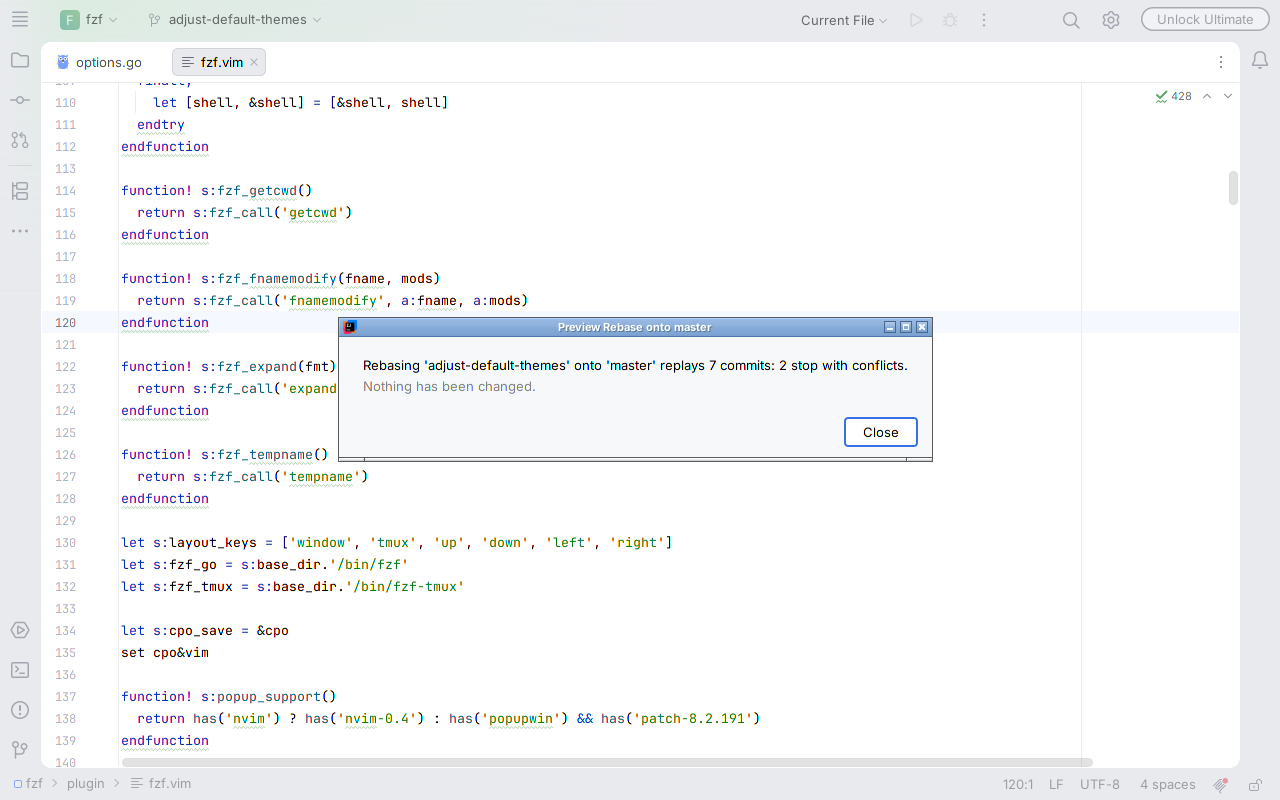
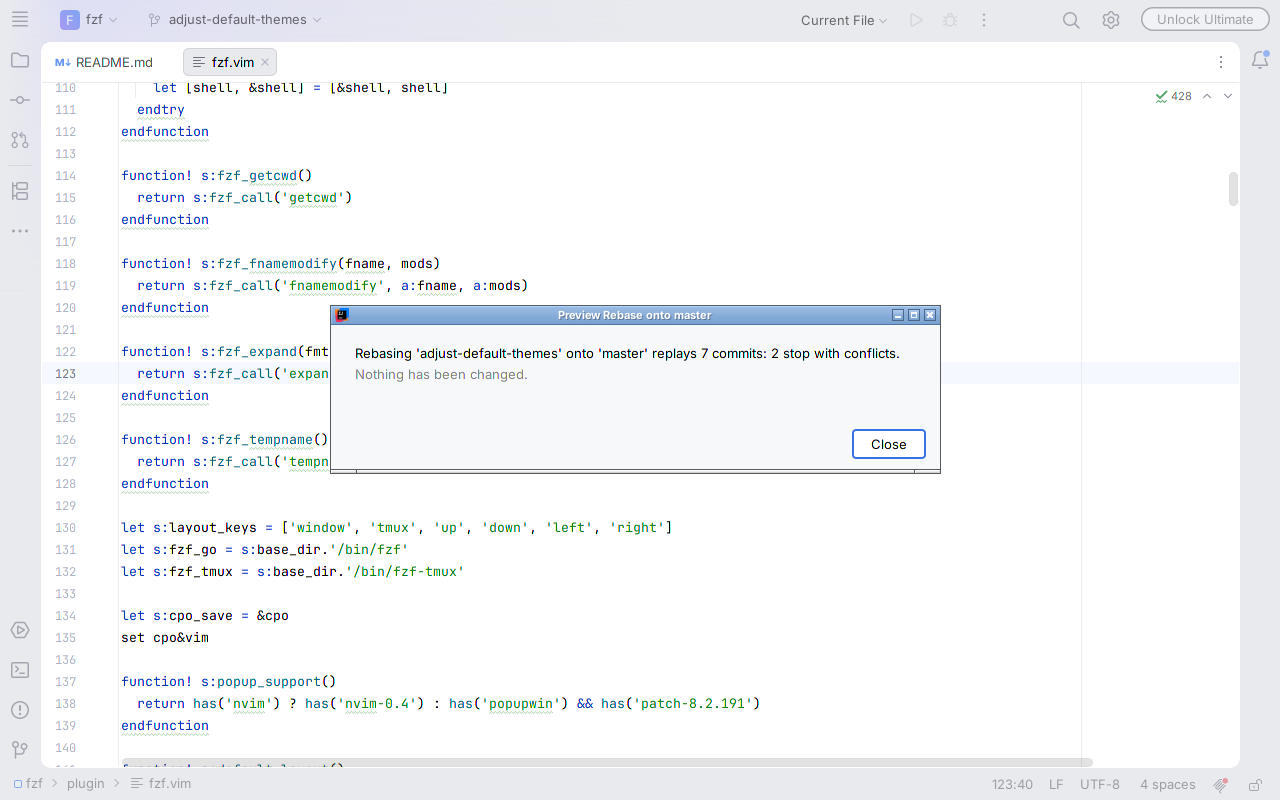
Histsight page (1.1.4, customer gate 4): licence page says it is free with no paid features; no $9 in the price line; the amend warning first among the benefits; quick start names histsight-1.1.4.zip; rebase-count images re-captured with 1.1.4

diff --git a/histsight/quick-start.html b/histsight/quick-start.html
@@ -42,7 +42,7 @@
     <li>In the IDE, open <strong>Settings &gt; Plugins</strong>, type <em>Histsight</em> in the search box and click <strong>Install</strong>. The listing is in review and not on JetBrains Marketplace yet; until it is live, the search finds nothing.</li>
     <li>The IDE's bundled Git plugin must be enabled (it is by default). Restart if the IDE asks.</li>
   </ol>
-  <p><strong>From a zip</strong> (for example one you were sent before the listing is live): <strong>Settings &gt; Plugins</strong>, the gear icon next to the search box (2026.x) or next to the Marketplace/Installed tabs (2025.x), <strong>Install Plugin from Disk</strong> (shown with "…" in 2025.x), choose <code>histsight-1.1.3.zip</code>, accept the third-party plugin notice, and click <strong>OK</strong>. IntelliJ IDEA and PyCharm 2026.3 load it at once, with no restart; restart only if the IDE offers <strong>Restart IDE</strong>. PyCharm may not list Histsight while it installs: an active <strong>Apply</strong> button is the sign it worked, so click OK.</p>
+  <p><strong>From a zip</strong> (for example one you were sent before the listing is live): <strong>Settings &gt; Plugins</strong>, the gear icon next to the search box (2026.x) or next to the Marketplace/Installed tabs (2025.x), <strong>Install Plugin from Disk</strong> (shown with "…" in 2025.x), choose <code>histsight-1.1.4.zip</code>, accept the third-party plugin notice, and click <strong>OK</strong>. IntelliJ IDEA and PyCharm 2026.3 load it at once, with no restart; restart only if the IDE offers <strong>Restart IDE</strong>. PyCharm may not list Histsight while it installs: an active <strong>Apply</strong> button is the sign it worked, so click OK.</p>
   <p><strong>The "Cannot update plugin" balloon (2026.x, zip installs only).</strong> After a zip install, 2026.x shows the IDE's own balloon "Cannot update plugin. Unable to identify where Histsight: Merge &amp; Amend was installed from." at every project open, restart or not, until you tell the IDE where updates come from. It is harmless, and one choice ends it: click <strong>Choose where to get updates from</strong> in the balloon (or find Histsight in <strong>Settings &gt; Plugins</strong>), pick <strong>JetBrains Marketplace</strong> and click <strong>OK</strong>. The balloon does not come back, and once the listing is live the IDE takes Histsight's updates from there. 2025.x does not show it.</p>
   <p><strong>Right after a project opens</strong>, the IDE first imports and indexes it (progress in the status bar). Until then a branch's submenu may show only a few entries, such as Checkout and Update; the IDE's own Merge and Rebase entries and Histsight's appear together once it is done.</p>
   <p>Histsight works with the bundled Git integration of IntelliJ IDEA, PyCharm, WebStorm, PhpStorm, GoLand, Rider and the other JetBrains IDEs, version 2025.1 and later. Tested in IntelliJ IDEA 2025.1.7 and 2026.3 and PyCharm 2026.3 on Linux, with Git 2.43 and 2.51; Windows, macOS, the other IDEs and Remote Development have not been tested yet. The rebase preview needs Git 2.40 or later; everything else works with any Git the IDE supports.</p>
@@ -71,7 +71,7 @@
     <li>It says how many commits the rebase would replay and how many would stop with conflicts, for example "Rebasing 'adjust-default-themes' onto 'master' replays 7 commits: 2 stop with conflicts." If untracked files would be overwritten by the target branch, it says Git will not start the rebase and names them.</li>
     <li><strong>Close</strong> leaves everything as it was. The preview never touches your working tree, index, branches or reflog. To rebase, use the IDE's own Rebase entry in the same submenu.</li>
   </ol>
-  <figure><a href="img/free-rebase-count-window.png"><img src="img/free-rebase-count.png" alt="Preview Rebase onto master: 'Rebasing adjust-default-themes onto master replays 7 commits: 2 stop with conflicts.', 'Nothing has been changed.' and Close" width="595" height="143" loading="lazy"></a><figcaption>Seven commits to replay; two will stop the rebase.</figcaption></figure>
+  <figure><a href="img/free-rebase-count-window.png"><img src="img/free-rebase-count.png" alt="Preview Rebase onto master: 'Rebasing adjust-default-themes onto master replays 7 commits: 2 stop with conflicts.', 'Nothing has been changed.' and Close" width="611" height="166" loading="lazy"></a><figcaption>Seven commits to replay; two will stop the rebase.</figcaption></figure>
   <p>The count assumes each conflict is resolved with the replayed commit's own version of the files, which is what <strong>Accept</strong> in the <em>Yours</em> column of the IDE's Conflicts dialog does during a rebase. A different resolution can change what happens to later commits. Long previews run in the background with progress and Cancel.</p>
 
   <h2 id="free">Free</h2>
@@ -90,7 +90,7 @@
   <p>Histsight runs only the local <code>git</code> executable on your project's own repositories. None of the commands it runs is a fetch, pull or push, and it sends nothing anywhere: no telemetry, no analytics. In a partial clone, Git itself downloads missing file contents when a merge or amend needs them, as it does for the IDE's own merge; the rebase preview turns that off and never downloads. See also the <a href="../privacy.html">privacy policy</a>.</p>
 
   <h2 id="source">Source code</h2>
-  <p>Histsight is GPL-3.0-or-later (<a href="license.html">licence text</a>). The complete source ships inside the plugin zip, as <code>histsight/source/histsight-1.1.3-source.zip</code>.</p>
+  <p>Histsight is GPL-3.0-or-later (<a href="license.html">licence text</a>). The complete source ships inside the plugin zip, as <code>histsight/source/histsight-1.1.4-source.zip</code>.</p>
 
   <h2 id="support">Support</h2>
   <p>Email <a href="mailto:support@ochrestack.com">support@ochrestack.com</a> with the IDE version (Help &gt; About), the output of <code>git --version</code>, and what you saw. Bug reports and feature requests are welcome at the same address.</p>

diff --git a/histsight/index.html b/histsight/index.html
@@ -133,12 +133,12 @@
     </figure>
   </div>
   <ul class="benefits">
-    <li><strong>Merge <code>--ff-only</code> or <code>--no-ff</code> from the popup,</strong> with a hint before you click.</li>
     <li><strong>A warning before you amend a pushed commit,</strong> naming the remote branch, so no surprise force-push.</li>
+    <li><strong>Merge <code>--ff-only</code> or <code>--no-ff</code> from the popup,</strong> with a hint before you click.</li>
     <li><strong>Know how often a rebase will stop,</strong> before it starts.</li>
   </ul>
   <div class="buy">
-    <p class="price"><strong>Free</strong>, with no time limit: all of it, and it stays free. A paid tier ($9 once) may come later for extras; nothing here moves behind it.</p>
+    <p class="price"><strong>Free</strong>, with no time limit: all of it, and it stays free. No licence, no trial, nothing to buy.</p>
     <p><a class="button pending" id="buy" href="#" aria-describedby="buy-note" onclick="return false;">Get it on JetBrains Marketplace</a></p>
     <p class="note" id="buy-note">Listing in review: not on JetBrains Marketplace yet.</p>
     <p class="fine">Tested: IntelliJ IDEA 2025.1.7 and 2026.3 and PyCharm 2026.3 on Linux; Windows and macOS untested. Source included. Support: <a href="mailto:support@ochrestack.com">support@ochrestack.com</a> · <a href="quick-start.html">Quick start</a></p>
@@ -154,7 +154,7 @@
     <video controls preload="none" playsinline poster="video/poster.jpg" width="1280" height="720">
       <source src="video/histsight-demo-720p.mp4" type="video/mp4">
     </video>
-    <figcaption>44 s, captions only, no audio track. IntelliJ IDEA 2026.3, recorded with Histsight 1.1.2 (the same screens in 1.1.3). <a href="video/histsight-demo-1080p.mp4">1080p, 60 fps</a>.</figcaption>
+    <figcaption>44 s, captions only, no audio track. IntelliJ IDEA 2026.3, recorded with Histsight 1.1.2 (the same screens in 1.1.4, whose rebase-count window has a little more room). <a href="video/histsight-demo-1080p.mp4">1080p, 60 fps</a>.</figcaption>
   </figure>
   <figure>
     <img src="video/histsight-rebase-count.gif" alt="Animated: in the Branches popup, Preview Rebase onto master; the window says Rebasing adjust-default-themes onto master replays 7 commits: 2 stop with conflicts, and Nothing has been changed" width="1280" height="720" loading="lazy">
@@ -183,7 +183,7 @@
   </figure>
 
   <figure class="real-size">
-    <a href="img/free-rebase-count-window.png"><img src="img/free-rebase-count.png" alt="The Preview Rebase onto master window: 'Rebasing adjust-default-themes onto master replays 7 commits: 2 stop with conflicts.', 'Nothing has been changed.' and Close" width="595" height="143" loading="lazy"></a>
+    <a href="img/free-rebase-count-window.png"><img src="img/free-rebase-count.png" alt="The Preview Rebase onto master window: 'Rebasing adjust-default-themes onto master replays 7 commits: 2 stop with conflicts.', 'Nothing has been changed.' and Close" width="611" height="166" loading="lazy"></a>
     <figcaption>Before you rebase: 7 commits, 2 will stop. The count only; it does not name the commits.</figcaption>
   </figure>
 

diff --git a/histsight/license.html b/histsight/license.html
@@ -37,7 +37,7 @@
 <main>
   <h1>Histsight licence</h1>
   <p>Copyright (C) 2026 Ochrestack. Histsight: Merge &amp; Amend is free software: you can redistribute it and/or modify it under the terms of the GNU General Public License as published by the Free Software Foundation, either version 3 of the License, or (at your option) any later version. It is distributed in the hope that it will be useful, but without any warranty; without even the implied warranty of merchantability or fitness for a particular purpose. See the license text below.</p>
-  <p>The complete source code ships inside the plugin zip, as <code>histsight/source/histsight-&lt;version&gt;-source.zip</code>. The paid features are unlocked through JetBrains Marketplace licensing; buying a licence is governed by JetBrains Marketplace's terms. Questions: <a href="mailto:support@ochrestack.com">support@ochrestack.com</a>. Back to the <a href="index.html">Histsight product page</a>.</p>
+  <p>The complete source code ships inside the plugin zip, as <code>histsight/source/histsight-&lt;version&gt;-source.zip</code>. Histsight is free: it has no paid features, and there is no licence to buy. Questions: <a href="mailto:support@ochrestack.com">support@ochrestack.com</a>. Back to the <a href="index.html">Histsight product page</a>.</p>
   <h2 id="gpl-3.0">GNU General Public License, version 3</h2>
 <pre>                    GNU GENERAL PUBLIC LICENSE
                        Version 3, 29 June 2007
